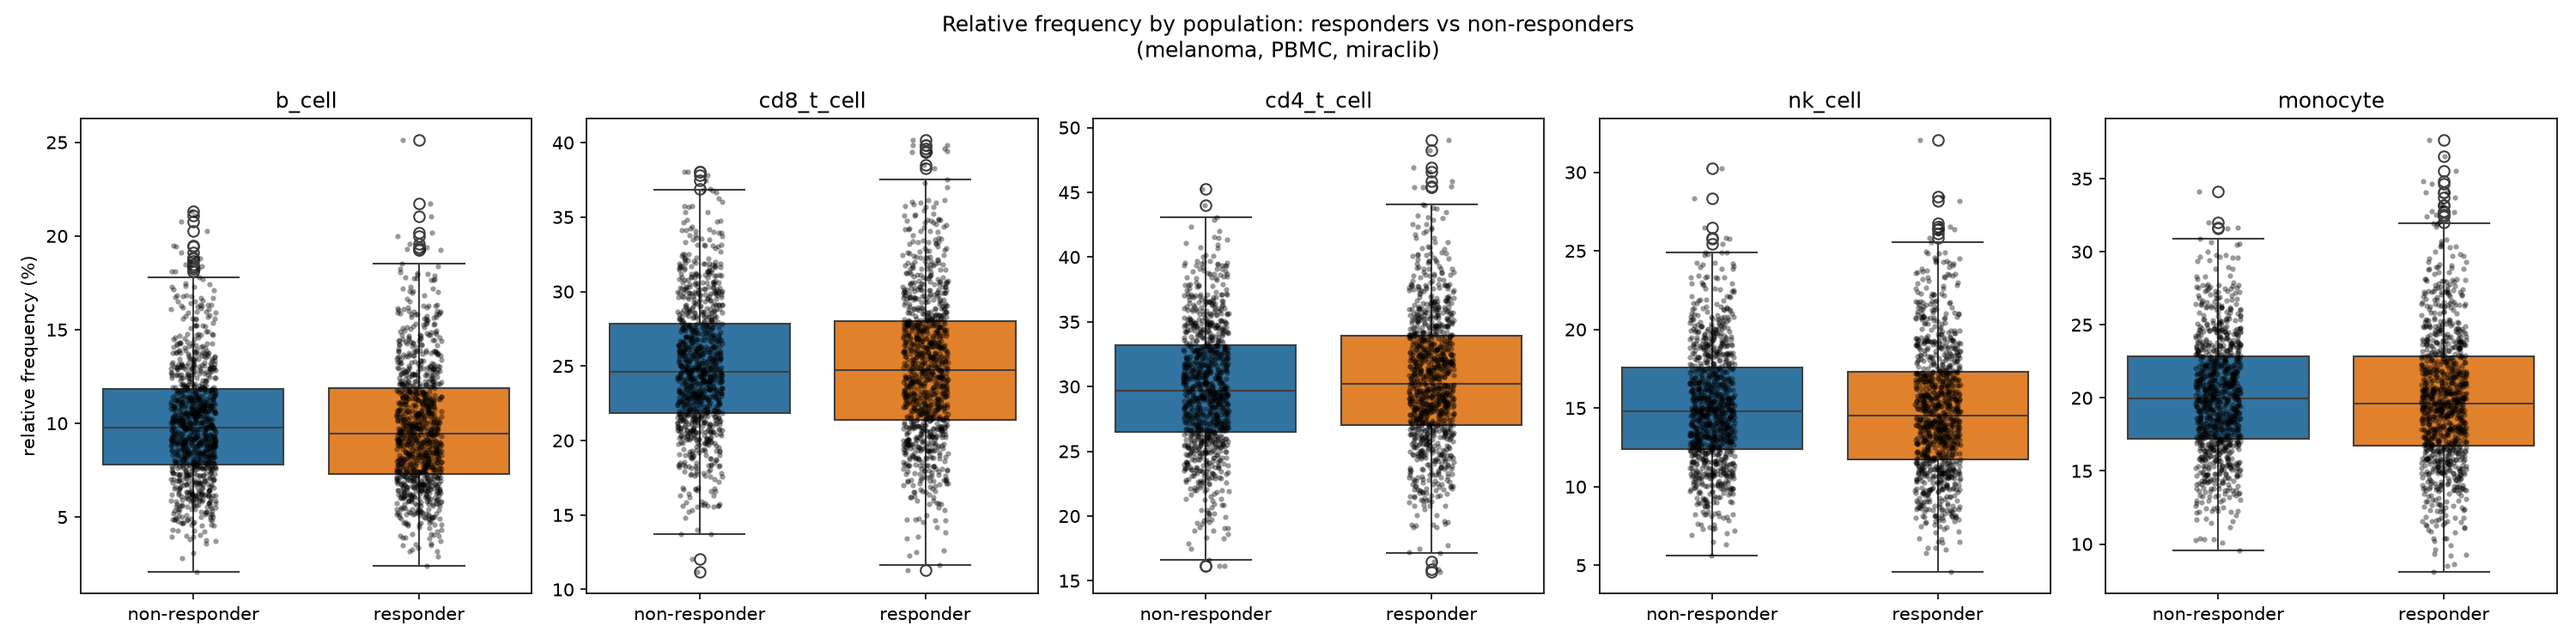
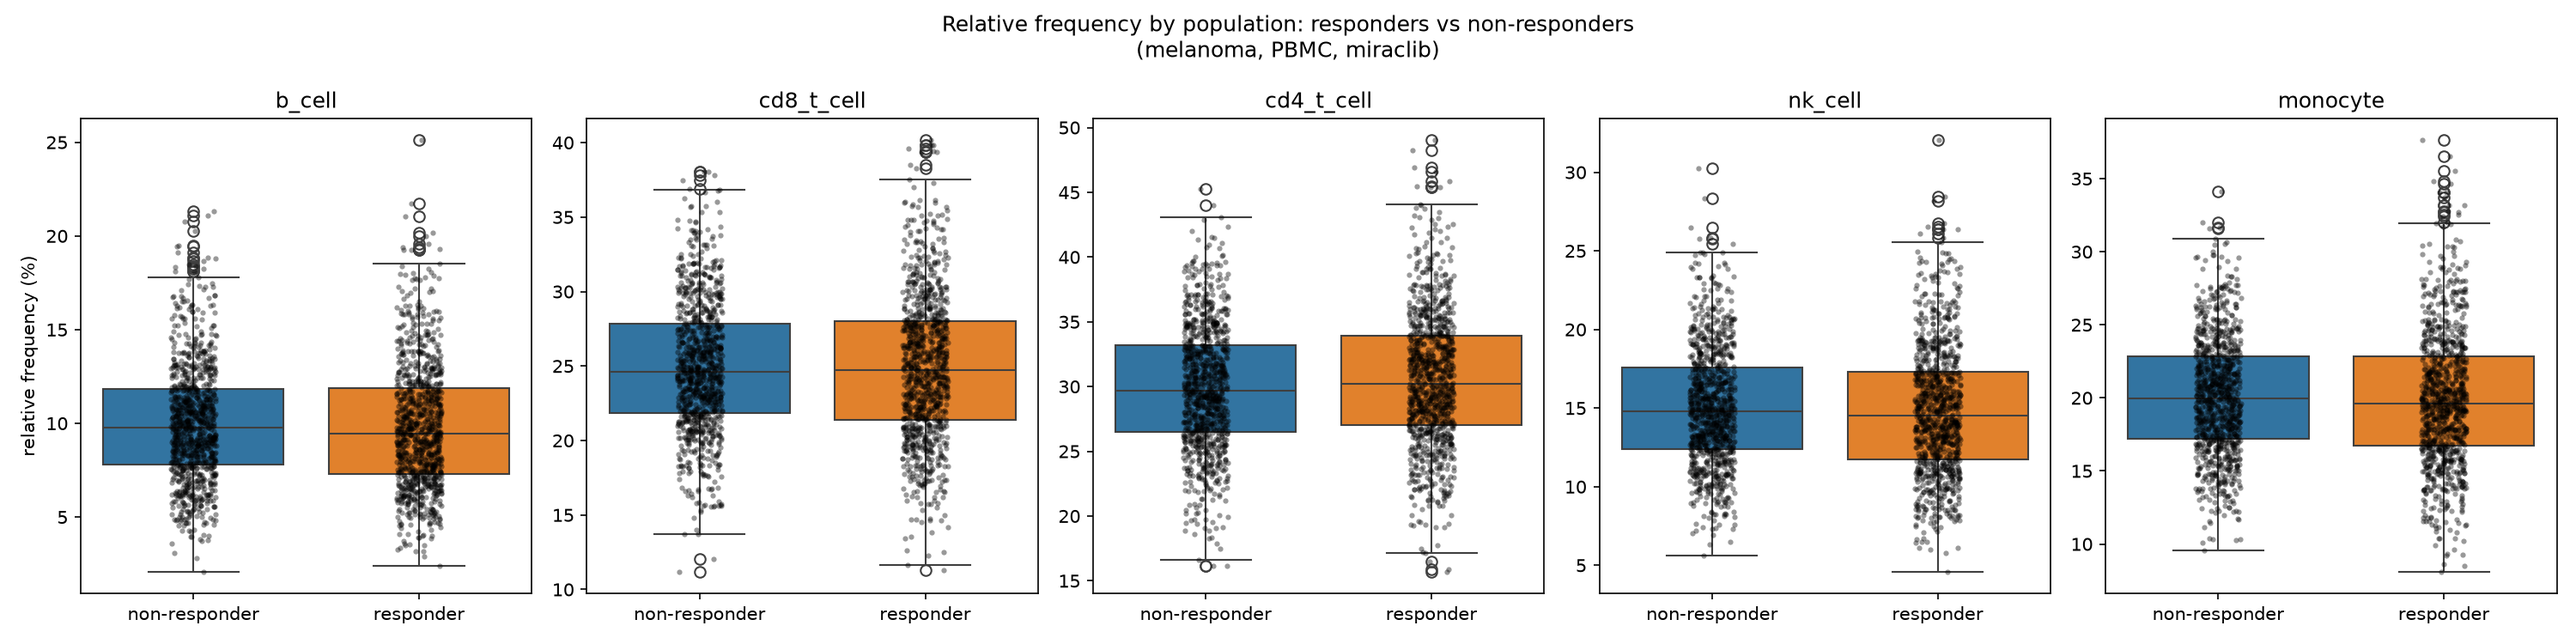
Seed RNG for deterministic Part 3 boxplot output
Verified Part 2/3/4 outputs against an independent recomputation
straight from cell-count.csv (all 52,500 Part 2 rows, all 5 Part 3
p-values, all Part 4 breakdown counts match exactly). The only
non-determinism was stripplot jitter placement in the boxplot PNG,
which reran with different dot positions each time despite identical
underlying data; seeded to make pipeline output reproducible run to run.

diff --git a/analysis/part3_stats.py b/analysis/part3_stats.py
@@ -74,6 +74,9 @@ def run_stats(merged):
 
 
 def make_boxplots(merged, out_path):
+    import numpy as np
+
+    np.random.seed(0)  # deterministic jitter in the stripplot overlay, for reproducible output
     fig, axes = plt.subplots(1, len(POPULATIONS), figsize=(20, 5), sharey=False)
     for ax, pop in zip(axes, POPULATIONS):
         sub = merged[merged["population"] == pop]
